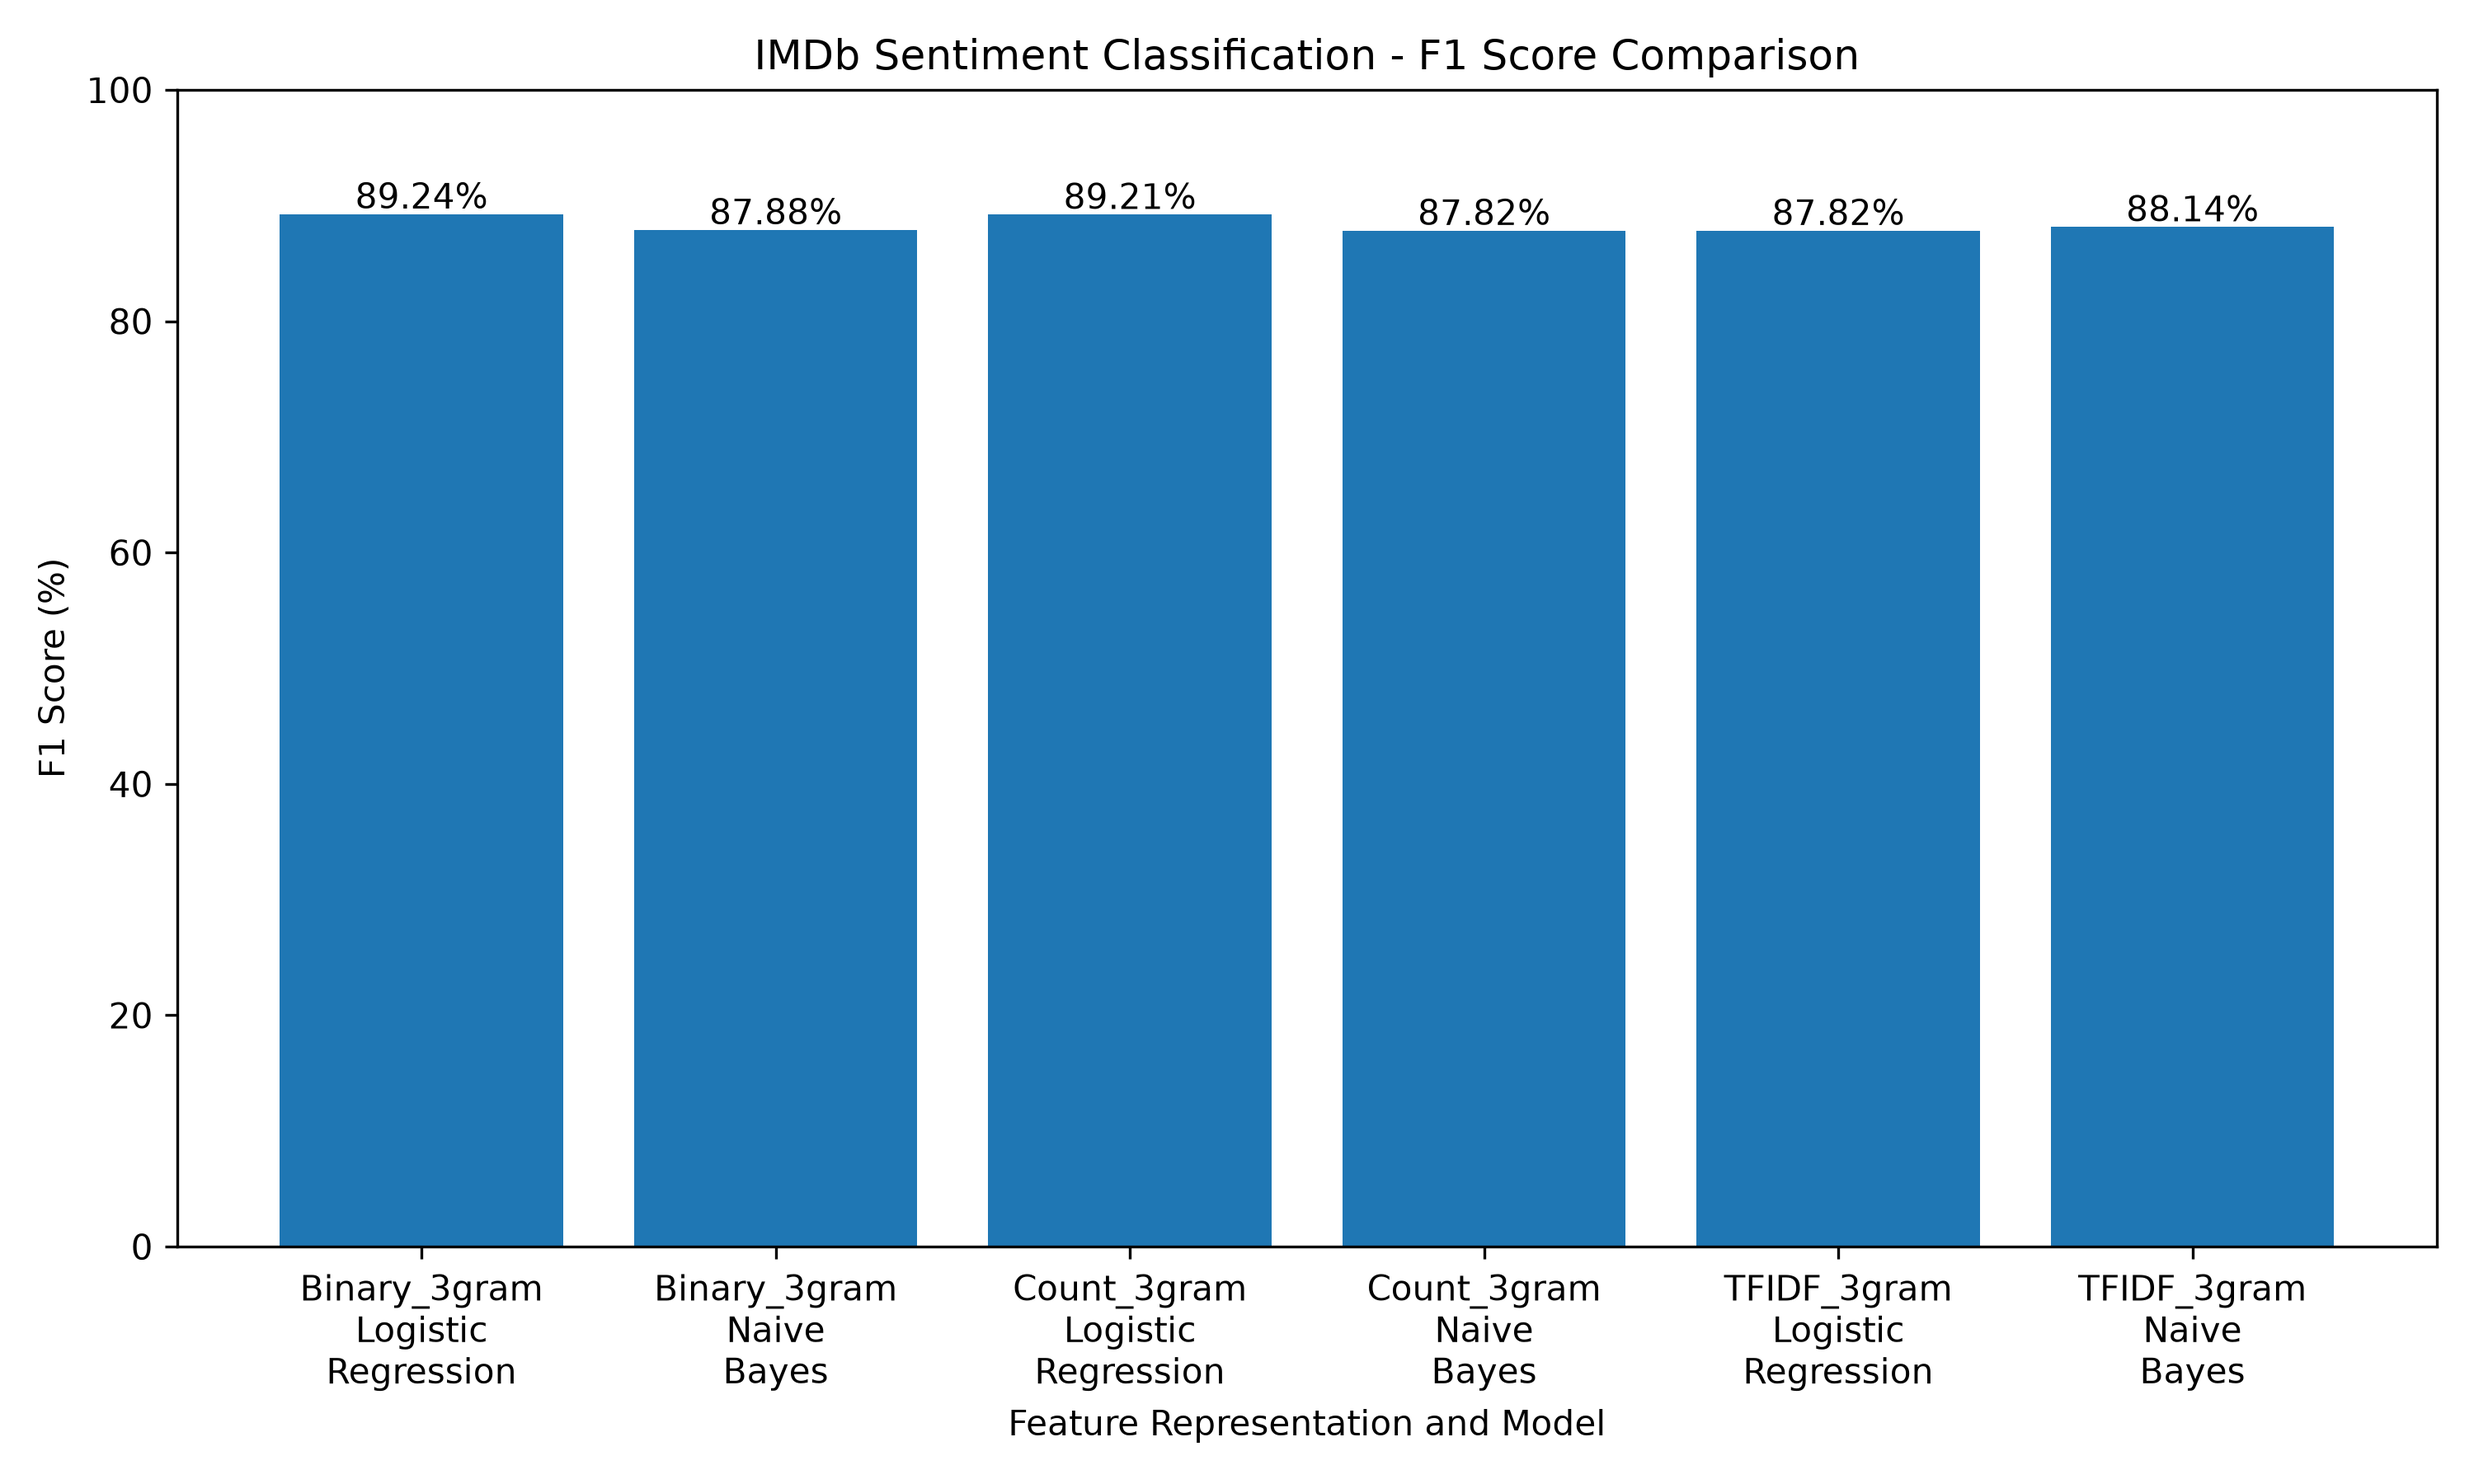
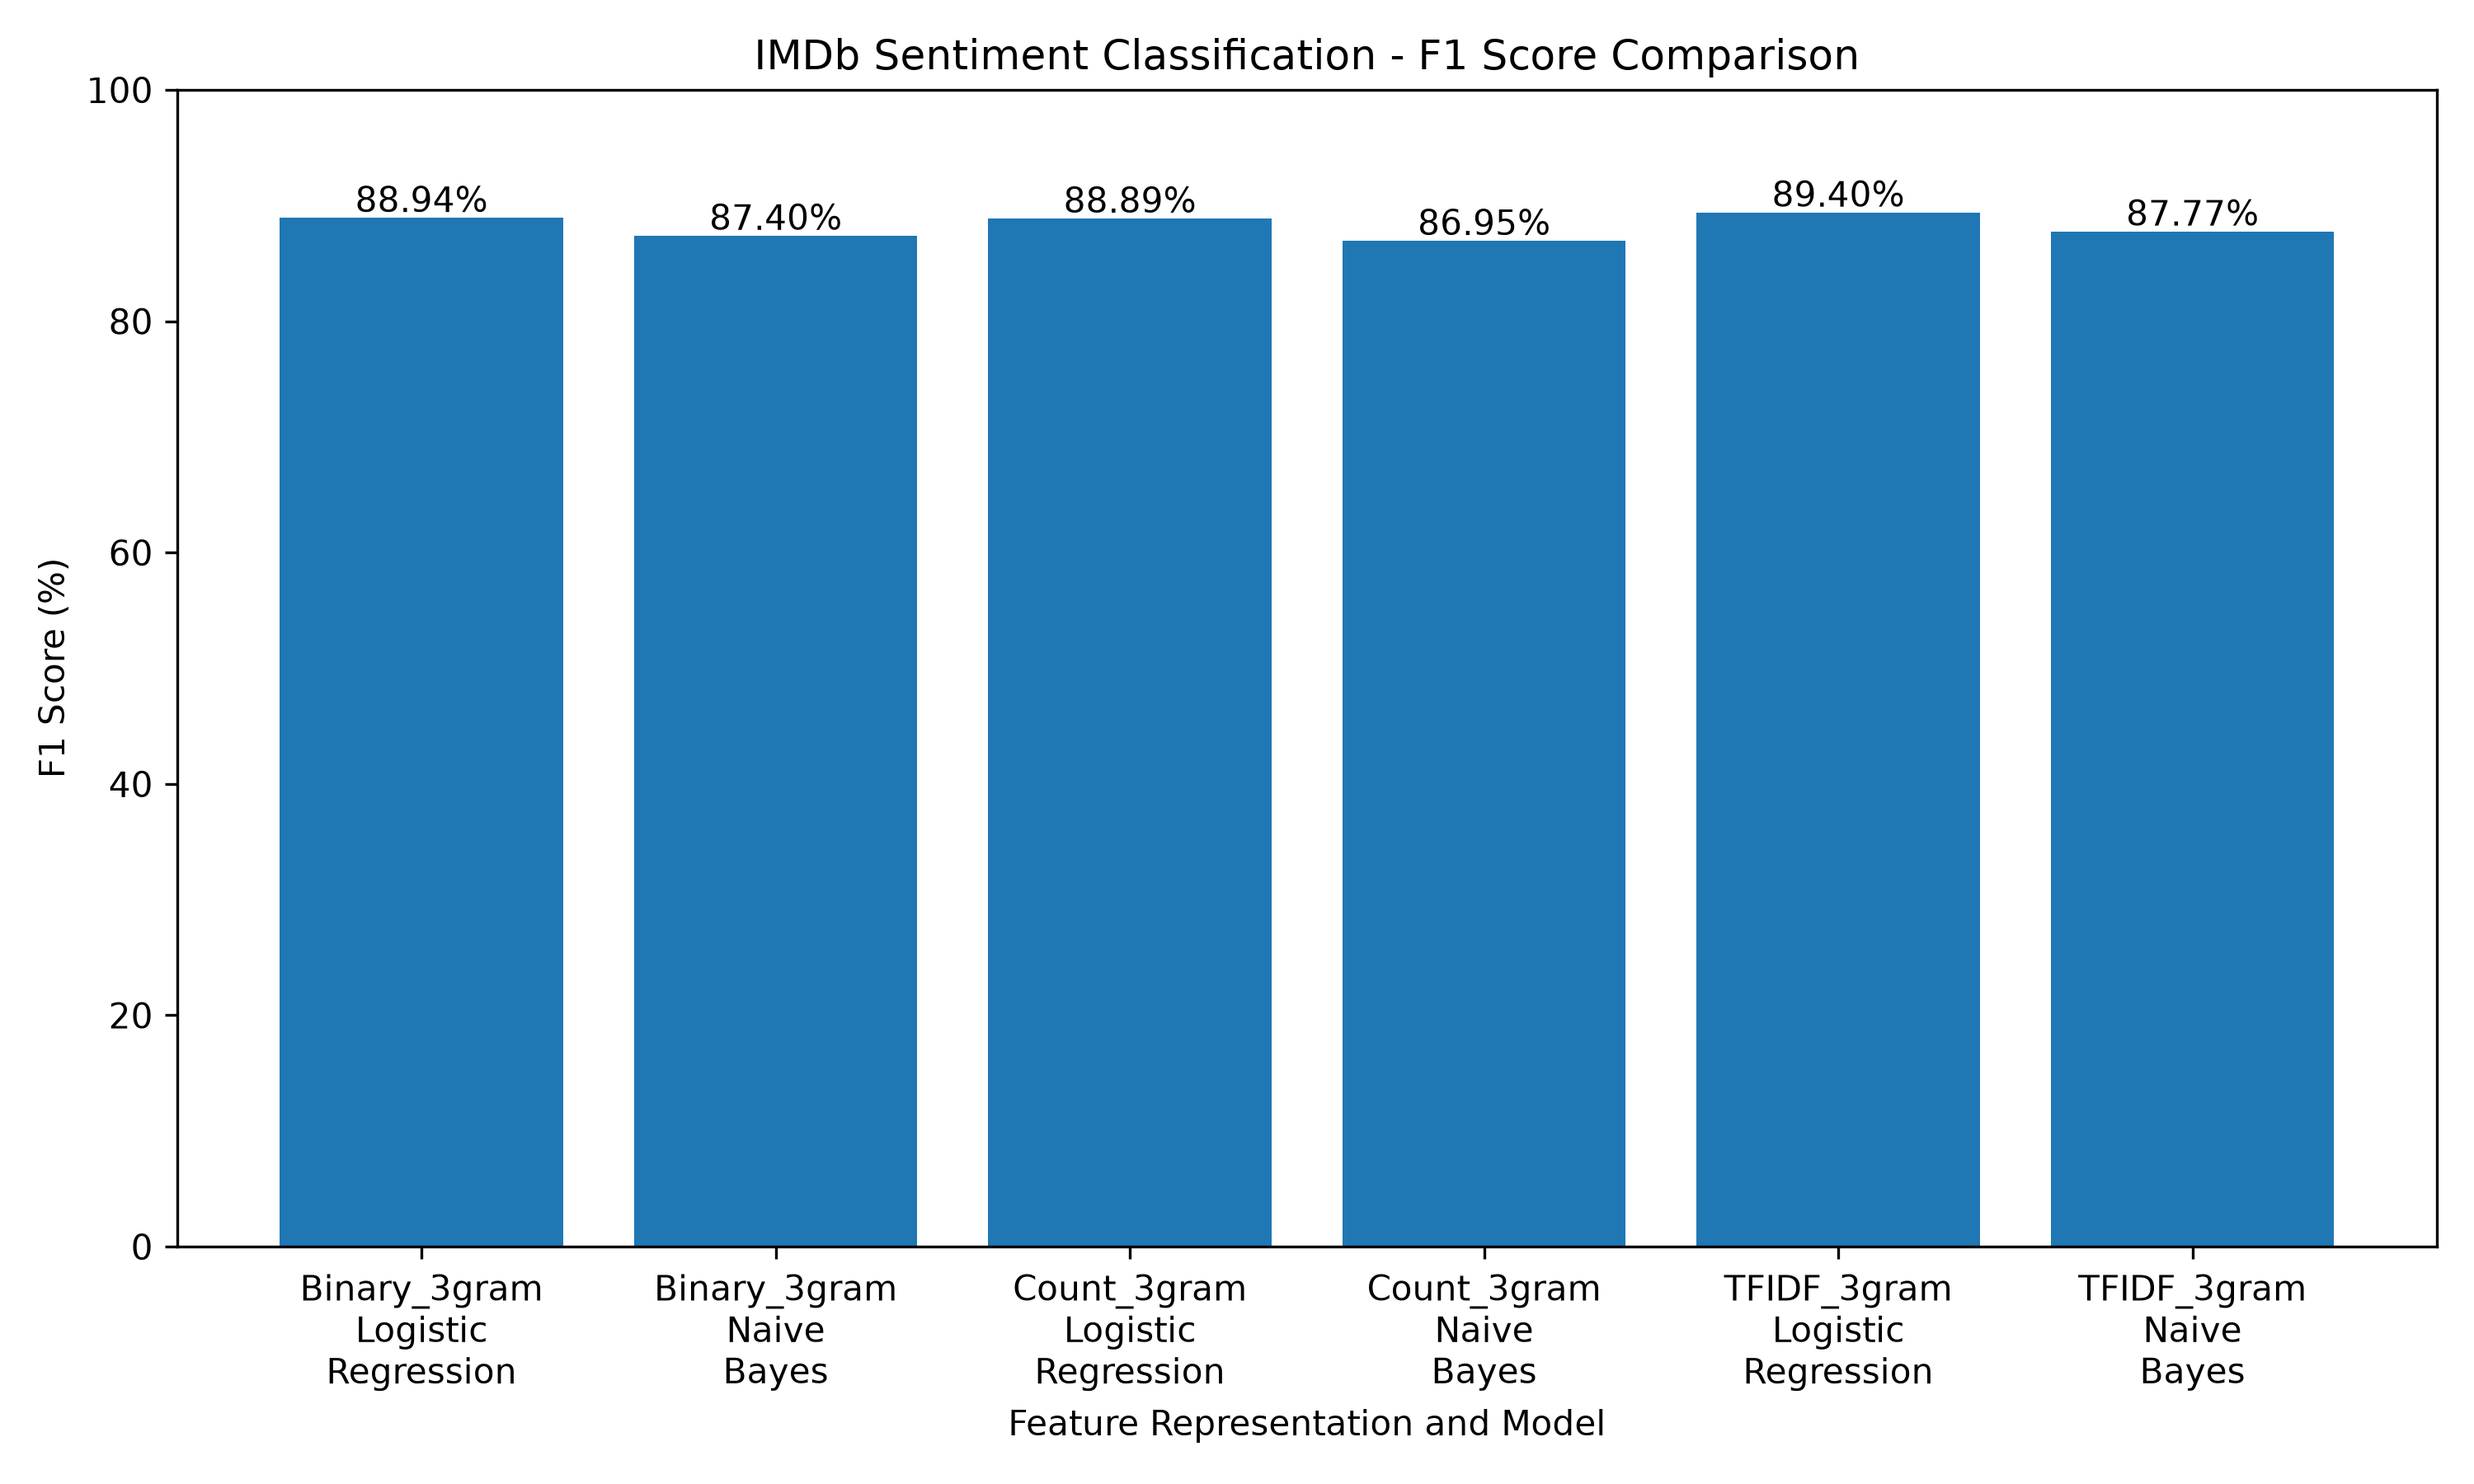
Reduced the features a bit for better computation

diff --git a/src/vectorize.py b/src/vectorize.py
@@ -1,25 +1,42 @@
+import os
+import time
 import pandas as pd
-from sklearn.feature_extraction.text import CountVectorizer, TfidfVectorizer
 import joblib
+from sklearn.feature_extraction.text import CountVectorizer, TfidfVectorizer
 
-# Load preprocessed datasets
+# --------------------------------------------------
+# 0. Setup and Data Loading
+# --------------------------------------------------
+# Automatically create models directory if missing
+os.makedirs("models", exist_ok=True)
+
+print("=" * 60)
+print("STARTING FEATURE VECTORIZATION")
+print("=" * 60)
+start_time = time.time()
+
+print("Loading preprocessed datasets...")
 train_df = pd.read_csv("data/train_processed.csv")
 test_df = pd.read_csv("data/test_processed.csv")
 
-X_train_text = train_df["clean_review"]
-X_test_text = test_df["clean_review"]
+# Fill missing/NaN values to avoid vectorizer errors
+X_train_text = train_df["clean_review"].fillna("")
+X_test_text = test_df["clean_review"].fillna("")
 
-y_train = train_df["sentiment"]
-y_test = test_df["sentiment"]
+print(f"Loaded {len(X_train_text)} training reviews and {len(X_test_text)} testing reviews.")
 
 
 # --------------------------------------------------
 # 1. Binary + 3-gram
 # --------------------------------------------------
+print("\n[1/3] Generating Binary 3-gram Vectorizer...")
+step_start = time.time()
 
 binary_vectorizer = CountVectorizer(
     binary=True,
-    ngram_range=(1, 3)
+    ngram_range=(1, 3),
+    max_features=50000,
+    min_df=2
 )
 
 X_train_binary = binary_vectorizer.fit_transform(X_train_text)
@@ -27,14 +44,22 @@ X_test_binary = binary_vectorizer.transform(X_test_text)
 
 joblib.dump(binary_vectorizer, "models/binary_3gram_vectorizer.pkl")
 
+print(f"✓ Completed in {time.time() - step_start:.2f}s")
+print(f"  Training shape : {X_train_binary.shape}")
+print(f"  Testing shape  : {X_test_binary.shape}")
+
 
 # --------------------------------------------------
 # 2. Word Count + 3-gram
 # --------------------------------------------------
+print("\n[2/3] Generating Word Count 3-gram Vectorizer...")
+step_start = time.time()
 
 count_vectorizer = CountVectorizer(
     binary=False,
-    ngram_range=(1, 3)
+    ngram_range=(1, 3),
+    max_features=50000,
+    min_df=2
 )
 
 X_train_count = count_vectorizer.fit_transform(X_train_text)
@@ -42,13 +67,21 @@ X_test_count = count_vectorizer.transform(X_test_text)
 
 joblib.dump(count_vectorizer, "models/count_3gram_vectorizer.pkl")
 
+print(f"✓ Completed in {time.time() - step_start:.2f}s")
+print(f"  Training shape : {X_train_count.shape}")
+print(f"  Testing shape  : {X_test_count.shape}")
+
 
 # --------------------------------------------------
 # 3. TF-IDF + 3-gram
 # --------------------------------------------------
+print("\n[3/3] Generating TF-IDF 3-gram Vectorizer...")
+step_start = time.time()
 
 tfidf_vectorizer = TfidfVectorizer(
-    ngram_range=(1, 3)
+    ngram_range=(1, 3),
+    max_features=50000,
+    min_df=2
 )
 
 X_train_tfidf = tfidf_vectorizer.fit_transform(X_train_text)
@@ -56,23 +89,20 @@ X_test_tfidf = tfidf_vectorizer.transform(X_test_text)
 
 joblib.dump(tfidf_vectorizer, "models/tfidf_3gram_vectorizer.pkl")
 
+print(f"✓ Completed in {time.time() - step_start:.2f}s")
+print(f"  Training shape : {X_train_tfidf.shape}")
+print(f"  Testing shape  : {X_test_tfidf.shape}")
+
 
 # --------------------------------------------------
-# Display results
+# Display Final Results
 # --------------------------------------------------
+total_time = time.time() - start_time
+print("\n" + "=" * 60)
+print(f"VECTORIZATION COMPLETE (Total Time: {total_time:.2f}s)")
+print("=" * 60)
 
-print("\n========== VECTORIZATION COMPLETE ==========")
-
-print("\nBinary + 3-gram:")
-print("Training shape:", X_train_binary.shape)
-print("Testing shape :", X_test_binary.shape)
-
-print("\nWord Count + 3-gram:")
-print("Training shape:", X_train_count.shape)
-print("Testing shape :", X_test_count.shape)
-
-print("\nTF-IDF + 3-gram:")
-print("Training shape:", X_train_tfidf.shape)
-print("Testing shape :", X_test_tfidf.shape)
-
-print("\nVectorizers saved successfully!")
+print("\nSaved vectorizers in models/:")
+print("  - models/binary_3gram_vectorizer.pkl")
+print("  - models/count_3gram_vectorizer.pkl")
+print("  - models/tfidf_3gram_vectorizer.pkl\n")

diff --git a/src/train_member2.py b/src/train_member2.py
@@ -27,10 +27,10 @@ RANDOM_STATE = 42
 # and the DNN cannot realistically train on that, so for these three models
 # we keep only the top-K features ranked by chi-square (fitted on TRAIN only).
 # SVM uses the full feature matrix.
-K_FEATURES_RF_DNN = 20000
-K_FEATURES_BOOST = 10000      # boosting is the slowest; use fewer features
+K_FEATURES_RF_DNN = 2000
+K_FEATURES_BOOST = 1000      # boosting is the slowest; use fewer features
  
-SVM_C_VALUES = [0.01, 0.05, 0.25, 0.5, 1]   # from the paper
+SVM_C_VALUES = [0.01, 0.1, 1]   # from the paper
  
 # --------------------------------------------------
 # Create required folders
@@ -132,12 +132,12 @@ for representation, vectorizer_path in vectorizers.items():
             GridSearchCV(
                 LinearSVC(
                     penalty="l2",
-                    tol=1e-4,
-                    max_iter=5000,
+                    tol=1e-3,
+                    max_iter=2000,
                     random_state=RANDOM_STATE,
                 ),
                 param_grid={"C": SVM_C_VALUES},
-                cv=3,
+                cv=2,
                 scoring="accuracy",
                 n_jobs=-1,
             ),
@@ -147,9 +147,9 @@ for representation, vectorizer_path in vectorizers.items():
         ),
         "Random Forest": (
             RandomForestClassifier(
-                n_estimators=100,
+                n_estimators=30,      # Reduced from 100
                 criterion="gini",
-                max_depth=None,
+                max_depth=15,
                 min_samples_split=2,
                 n_jobs=-1,
                 random_state=RANDOM_STATE,
@@ -160,9 +160,9 @@ for representation, vectorizer_path in vectorizers.items():
         ),
         "Boosting": (
             GradientBoostingClassifier(
-                n_estimators=100,
+                n_estimators=20,      # Reduced from 100
                 learning_rate=0.1,
-                min_samples_split=2,
+                max_depth=3,
                 random_state=RANDOM_STATE,
             ),
             X_train_boost,
@@ -171,12 +171,12 @@ for representation, vectorizer_path in vectorizers.items():
         ),
         "DNN": (
             MLPClassifier(
-                hidden_layer_sizes=(30, 30, 20, 10, 10),
-                activation="logistic",
+                hidden_layer_sizes=(30, 15),
+                activation="relu",    # Changed from logistic to relu for faster convergence
                 solver="adam",
                 alpha=0.0001,
                 early_stopping=True,
-                max_iter=200,
+                max_iter=50,
                 random_state=RANDOM_STATE,
             ),
             X_train_main,

diff --git a/src/train_member1.py b/src/train_member1.py
@@ -102,8 +102,8 @@ for representation, vectorizer_path in vectorizers.items():
     print("\nTraining Logistic Regression...")
 
     lr_model = LogisticRegression(
-        max_iter=3000,
-        solver="saga",
+        max_iter=500,
+        solver="lbfgs",
         random_state=42
     )
 
